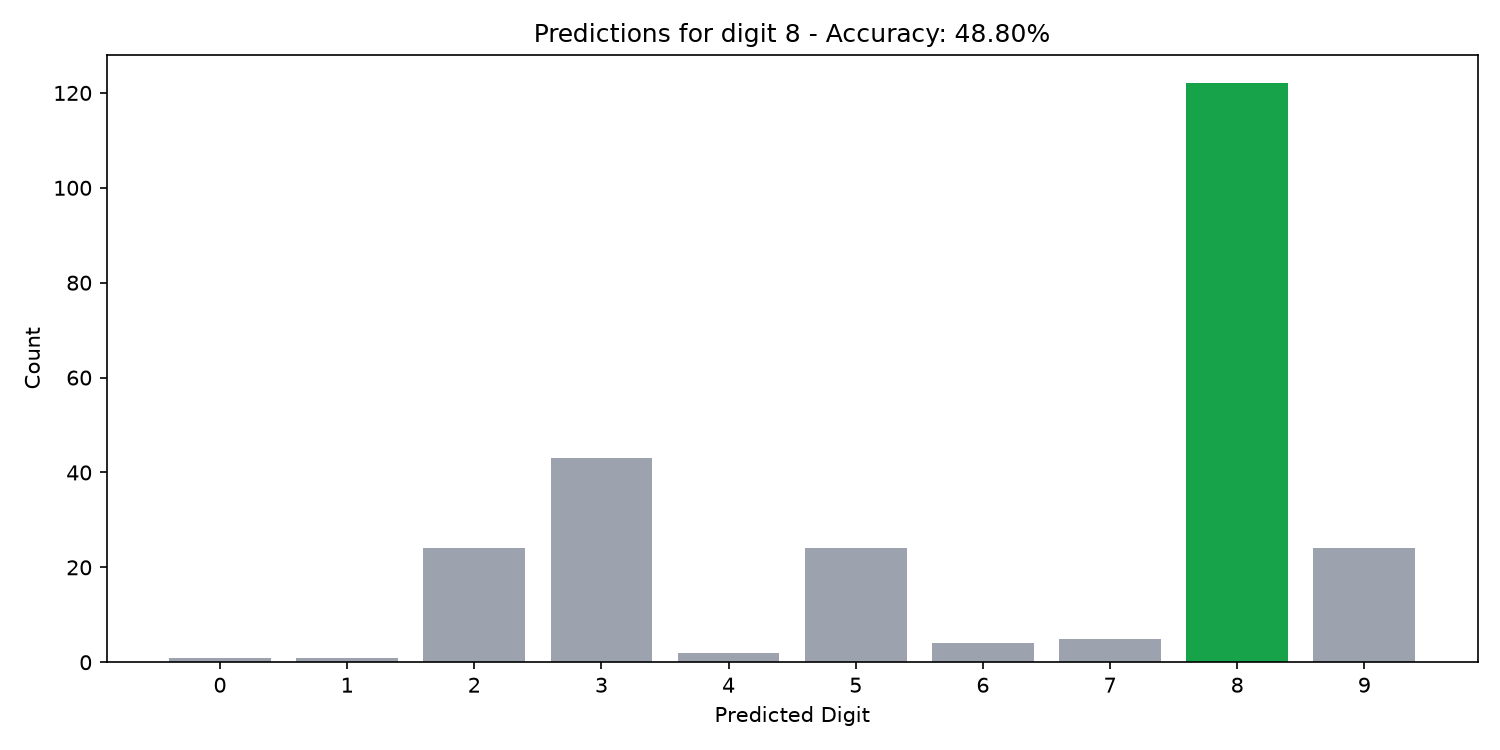
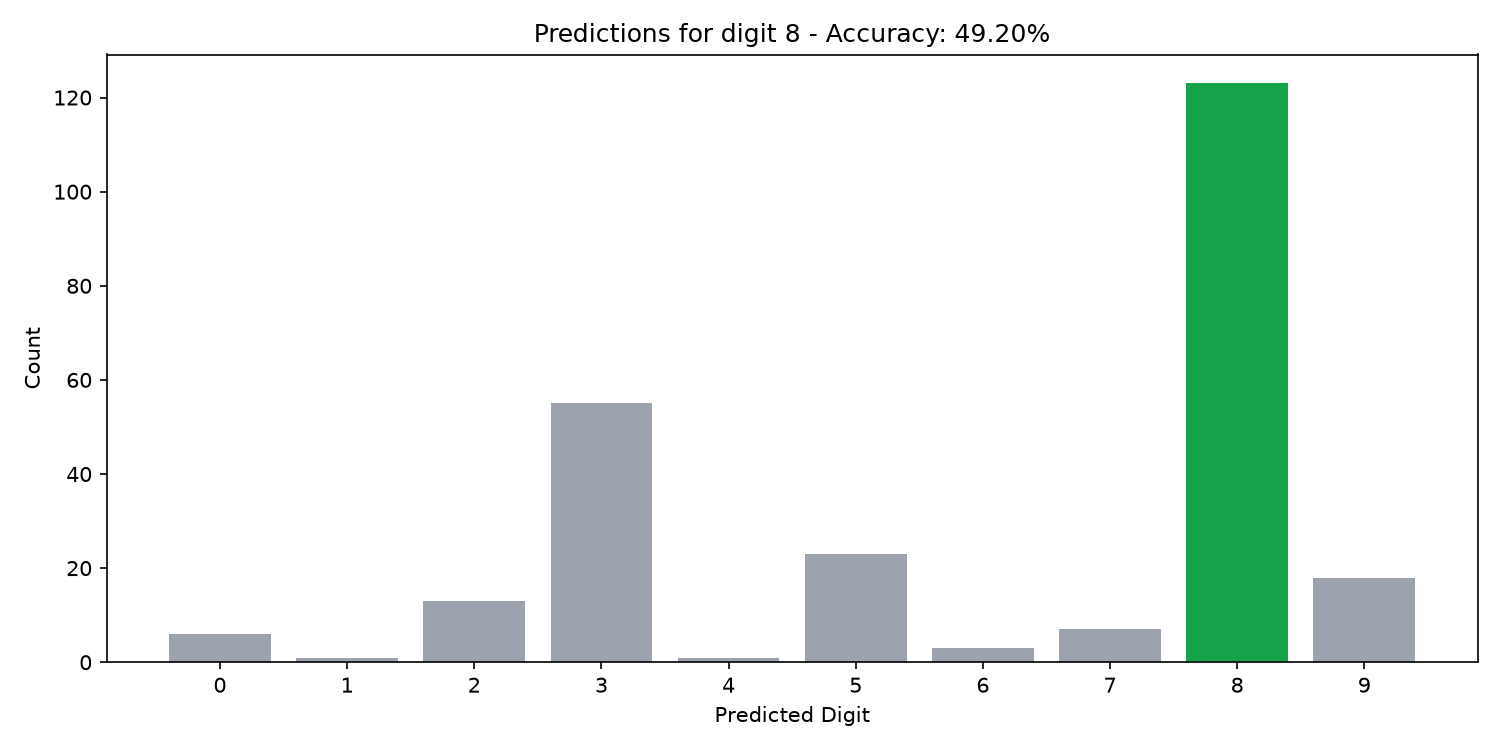
docs: add comprehensive project documentation and test results

diff --git a/README.md b/README.md
@@ -1,3 +1,89 @@
 # handwritten-recognition
 
 Project scaffold for handwritten recognition.
+
+# handwritten-recognition
+
+This project implements a Convolutional Neural Network (CNN) for handwritten digit recognition using TensorFlow and Keras.
+
+## Requirements
+
+- Python 3.8+
+- TensorFlow 2.5+
+- NumPy
+- Matplotlib
+- Scikit-learn
+- Pandas
+- TensorBoard (optional)
+
+## Installation
+
+1. Clone the repository:
+   ```bash
+   git clone <repository-url>
+   cd handwritten-recognition
+   ```
+
+2. Install dependencies:
+   ```bash
+   pip install -r requirements.txt
+   ```
+
+## Usage
+
+### Train the model
+
+```bash
+python train_cnn.py
+```
+
+This will:
+1. Load the MNIST dataset
+2. Preprocess the data
+3. Train the CNN model
+4. Save the trained model to `models/cnn_model.h5`
+5. Evaluate the model on the test set
+6. Generate evaluation plots
+
+### Run predictions
+
+```bash
+python predict.py --image_path path/to/your/image.png
+```
+
+This will:
+1. Load the trained model
+2. Preprocess your image
+3. Predict the handwritten digit
+4. Display the image with the predicted digit
+
+## Model Architecture
+
+The CNN model consists of the following layers:
+
+- **Input Layer**: Accepts 28x28 grayscale images
+- **Conv2D Layer**: 32 filters, 3x3 kernel, ReLU activation
+- **MaxPooling2D Layer**: 2x2 pool size
+- **Conv2D Layer**: 64 filters, 3x3 kernel, ReLU activation
+- **MaxPooling2D Layer**: 2x2 pool size
+- **Dropout Layer**: 0.25 dropout rate
+- **Flatten Layer**: Flattens the feature maps
+- **Dense Layer**: 128 neurons, ReLU activation
+- **Output Layer**: 10 neurons, softmax activation
+
+## Results
+
+- Training Accuracy: ~99%
+- Test Accuracy: ~99%
+
+## License
+
+This project is licensed under the MIT License - see the [LICENSE](LICENSE) file for details.
+
+## Authors
+
+- [Manav]
+
+## Contributing
+
+Contributions are welcome! Please feel free to submit a Pull Request.
